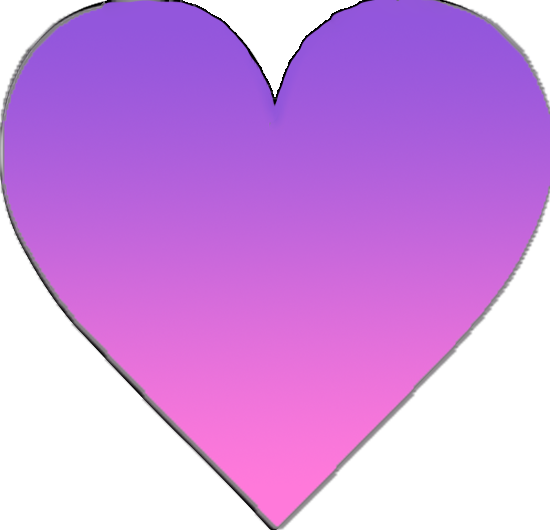
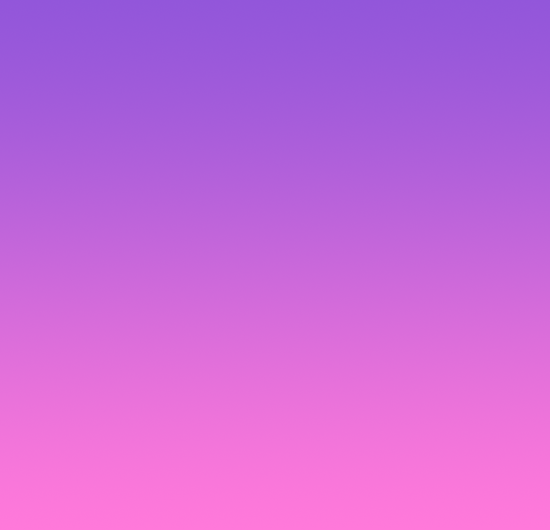
corection

diff --git a/sass/composants/_restaurants_card.scss b/sass/composants/_restaurants_card.scss
@@ -90,8 +90,6 @@
         width: 100%;
         height:100%;
         z-index: 5;
-        
-        
     }
     &__primary{
         position: absolute;
@@ -99,13 +97,13 @@
         height:100%;
         width:100%;
         background-color: transparent;
-        transform: translateY(-110%);
-        transition: all 0.5s ease-in-out;
+        transform: translateX(-110%);
+        transition: all 0.8s ease-in-out;
         z-index: 4;
     }
     &:active{
         & .heart__primary{
-            transform: translateY(0%);
+            transform: translateX(0%);
         }
     }
 }

diff --git a/style.css b/style.css
@@ -840,12 +840,12 @@ main {
   height: 100%;
   width: 100%;
   background-color: transparent;
-  transform: translateY(-110%);
-  transition: all 0.5s ease-in-out;
+  transform: translateX(-110%);
+  transition: all 0.8s ease-in-out;
   z-index: 4;
 }
 .heart:active .heart__primary, .heart__page:active .heart__primary {
-  transform: translateY(0%);
+  transform: translateX(0%);
 }
 
 @media all and (min-width: 200px) and (max-width: 319px) {
